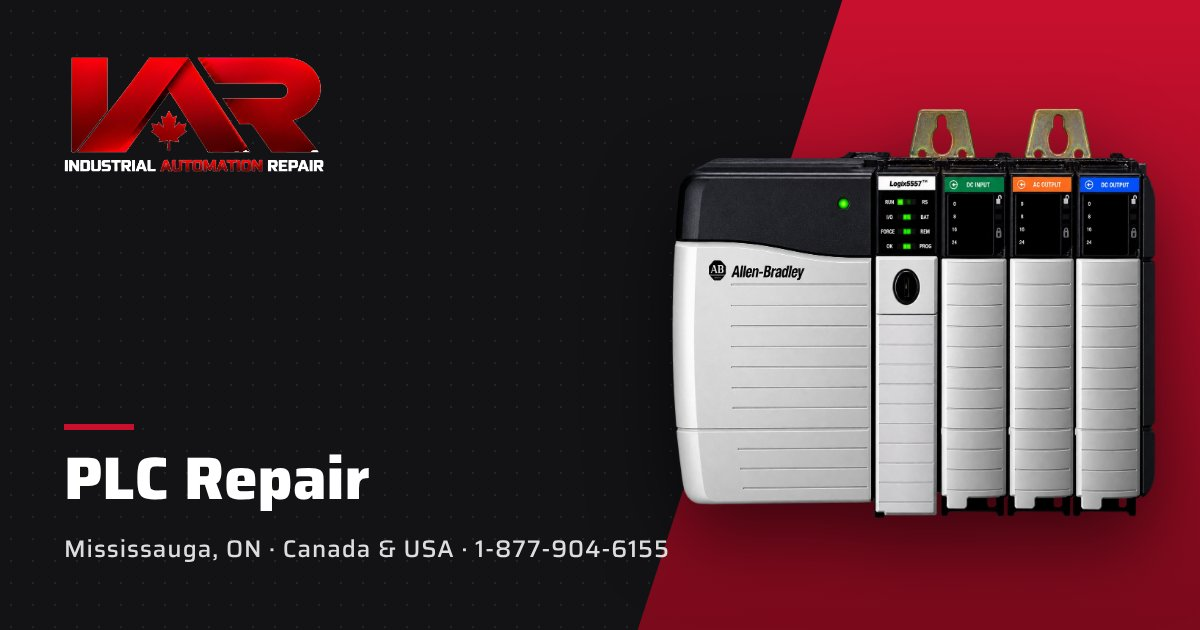
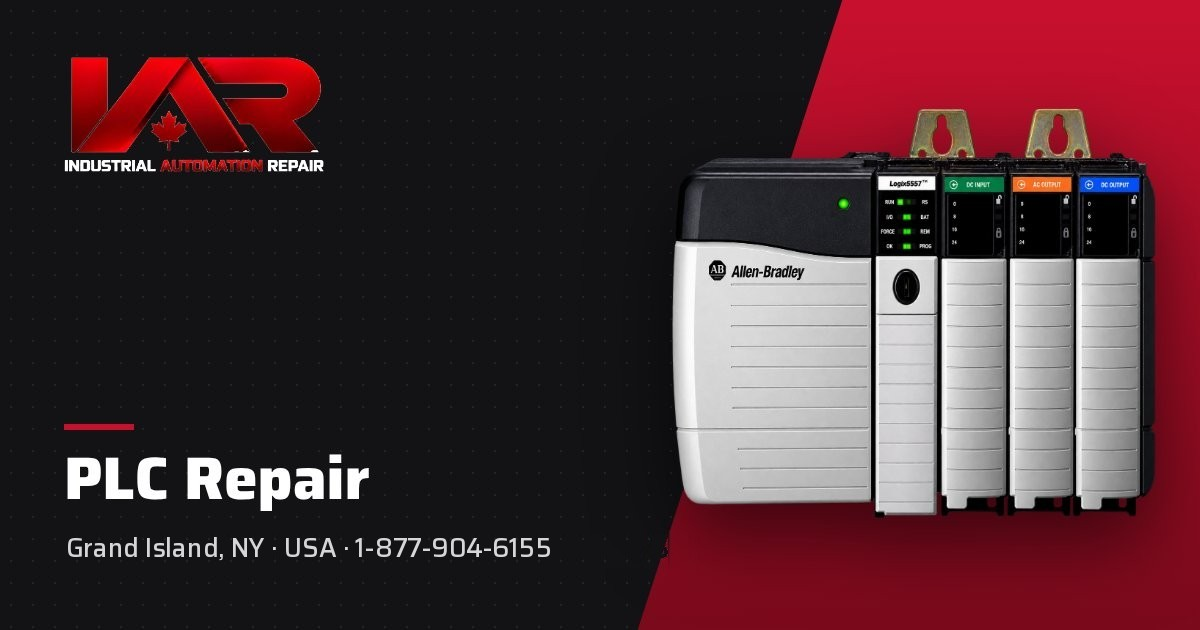
Share images: Grand Island, NY · USA instead of Mississauga · Canada & USA
Claude-Session: https://claude.ai/code/session_01Gq3sygbR5SUZnEAe4DNX21

Changed region(s): [[0.0308, 0.8444, 0.555, 0.9048], [0.1542, 0.2413, 0.2158, 0.2714]]

diff --git a/src/lib/site.ts b/src/lib/site.ts
@@ -23,11 +23,9 @@ export const indexable = process.env.VERCEL_ENV ? process.env.VERCEL_ENV === "pr
 export const SITE_URL = site.url;
 
 /* ------------------------------------------------------------------ */
-/*  Two country sites from one codebase and one database:              */
-/*    industrialautomationrepair.com (CA)  -> NEXT_PUBLIC_SITE_COUNTRY=CA*/
-/*    a US domain, if one is added later -> NEXT_PUBLIC_SITE_COUNTRY=US*/
-/*  Not set = one site for both countries (how it worked before .ca),   */
-/*  so nothing changes until the variable is set in Vercel.             */
+/*  IAR: leave NEXT_PUBLIC_SITE_COUNTRY unset. industrialautomationrepair.com */
+/*  is one US site. (The code can also run two country sites from one     */
+/*  codebase and database, CA and US, if that is ever wanted.)            */
 /*  Shared pages (parts, services, brands...) exist on both domains and */
 /*  are linked with hreflang in the sitemaps; city pages live only on   */
 /*  their own country's domain (the other domain 301s to it).           */
